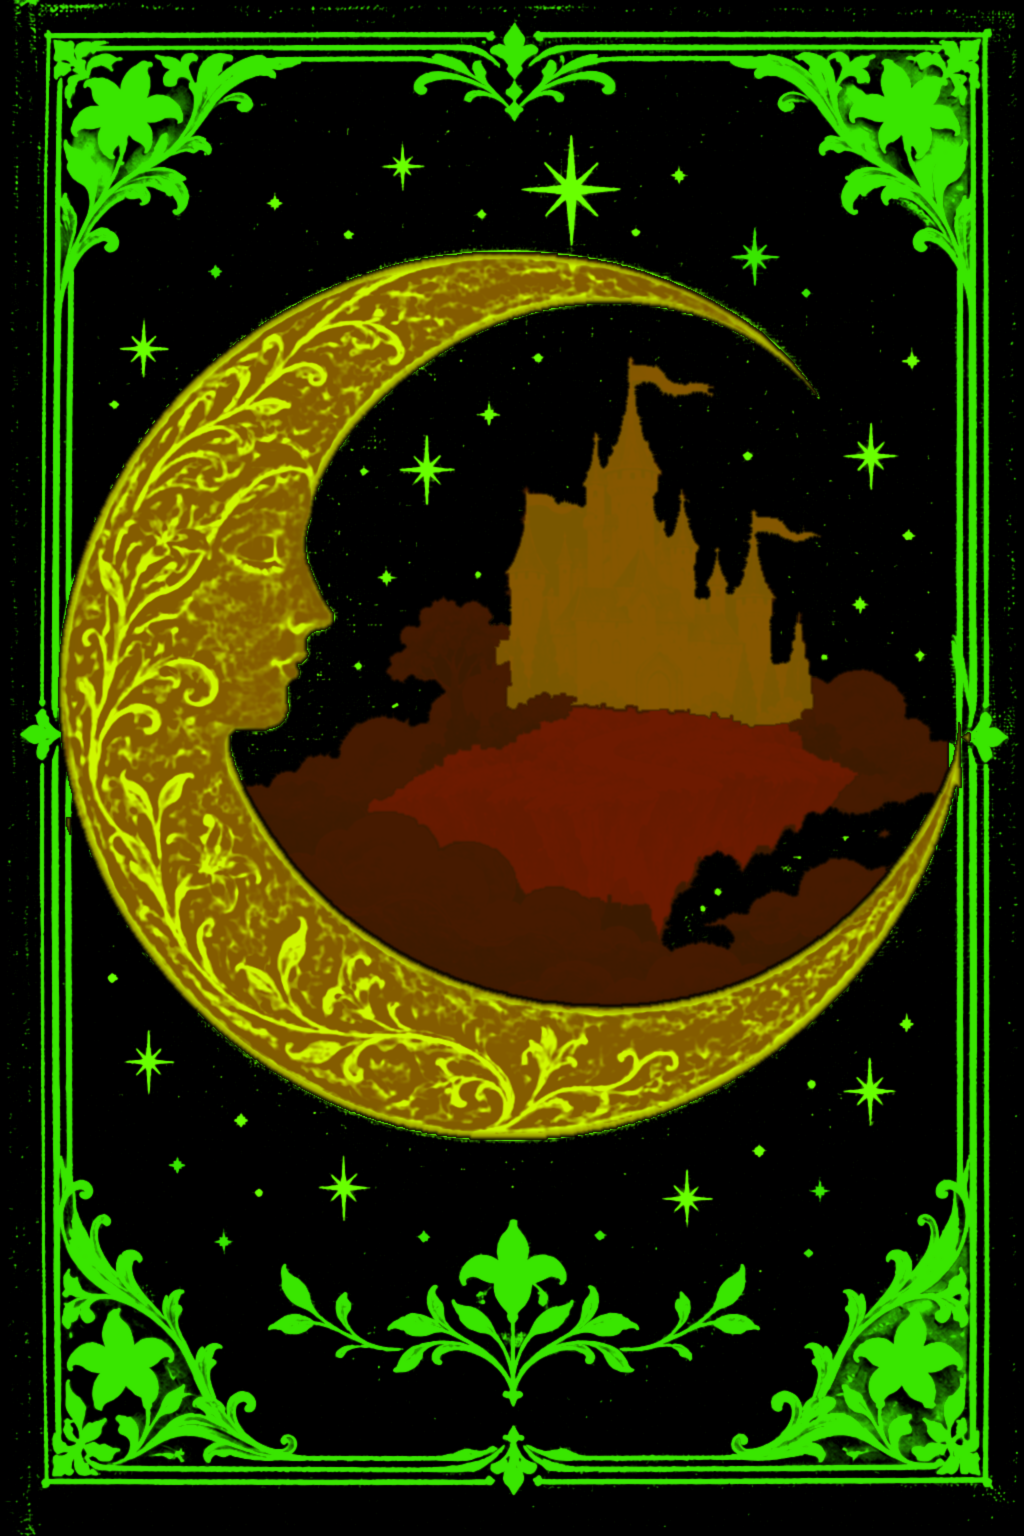
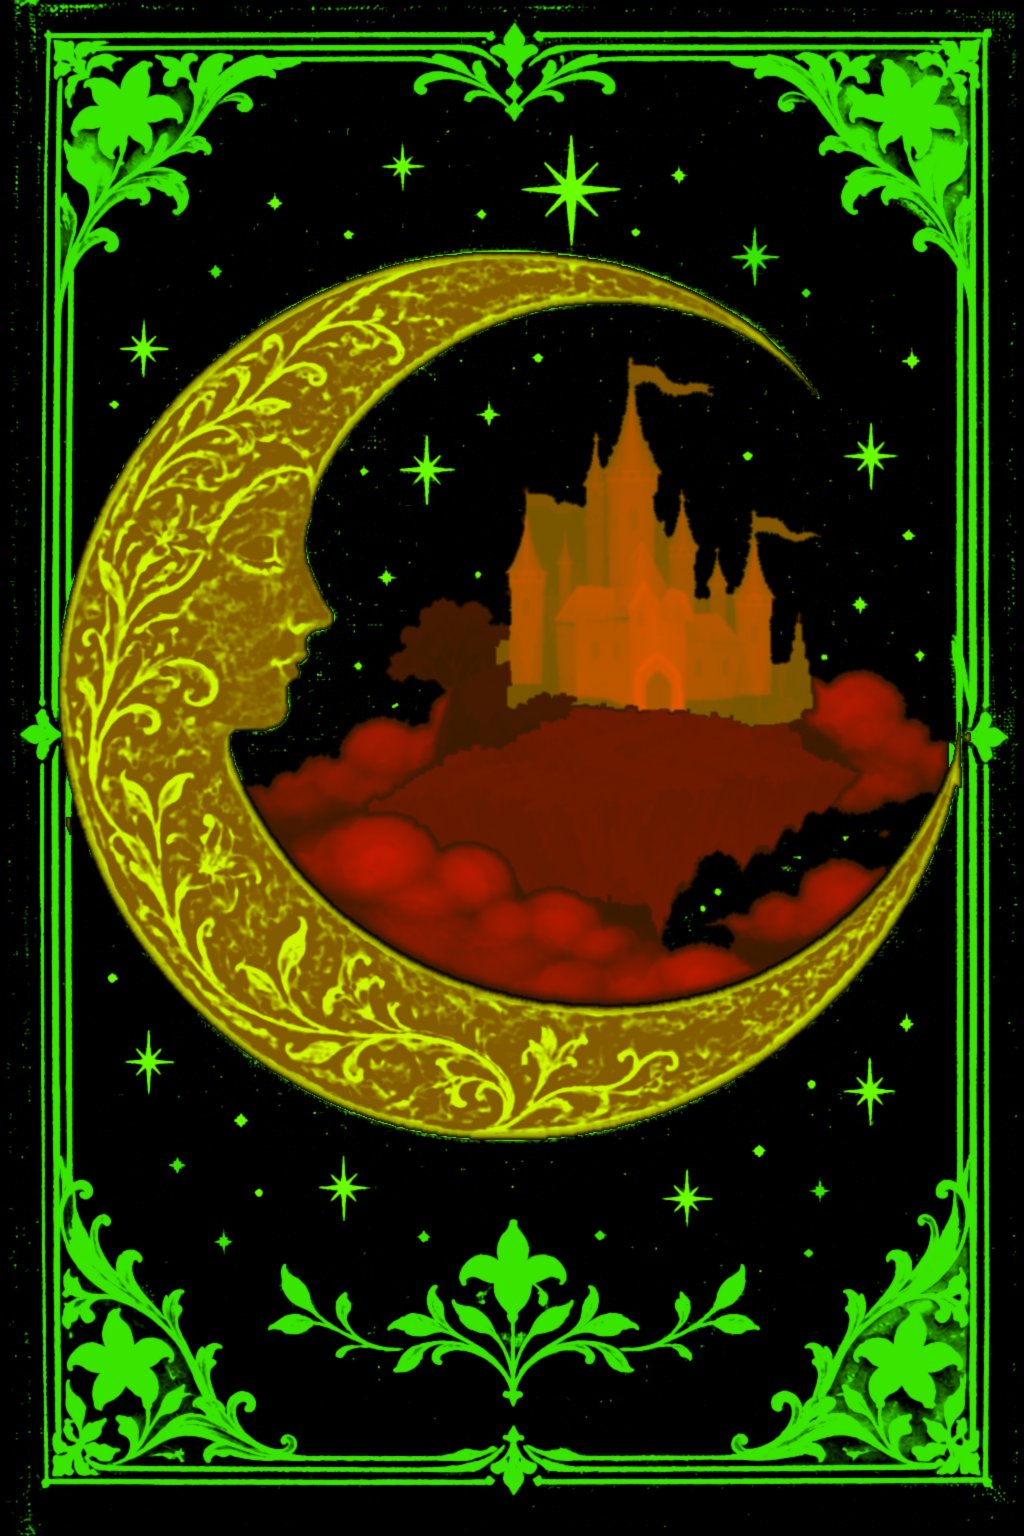
Sculpt castle towers and rounded foreground clouds

Changed region(s): [[0.25, 0.4375, 0.8438, 0.6562], [0.5, 0.25, 0.75, 0.4688], [0.7812, 0.4375, 0.9375, 0.5312]]

diff --git a/index.html b/index.html
@@ -23,4 +23,4 @@
       <label class="font-option" data-font="hei"><input type="radio" name="typeface" value="hei"><span><small>黑体 · Noto Sans</small><strong>森林　秘密揭晓</strong></span></label>
     </fieldset>
   </form>
-</dialog><script src="./app.mjs?v=edge-inspection-1" type="module"></script></body></html>
+</dialog><script src="./app.mjs?v=castle-clouds-1" type="module"></script></body></html>
